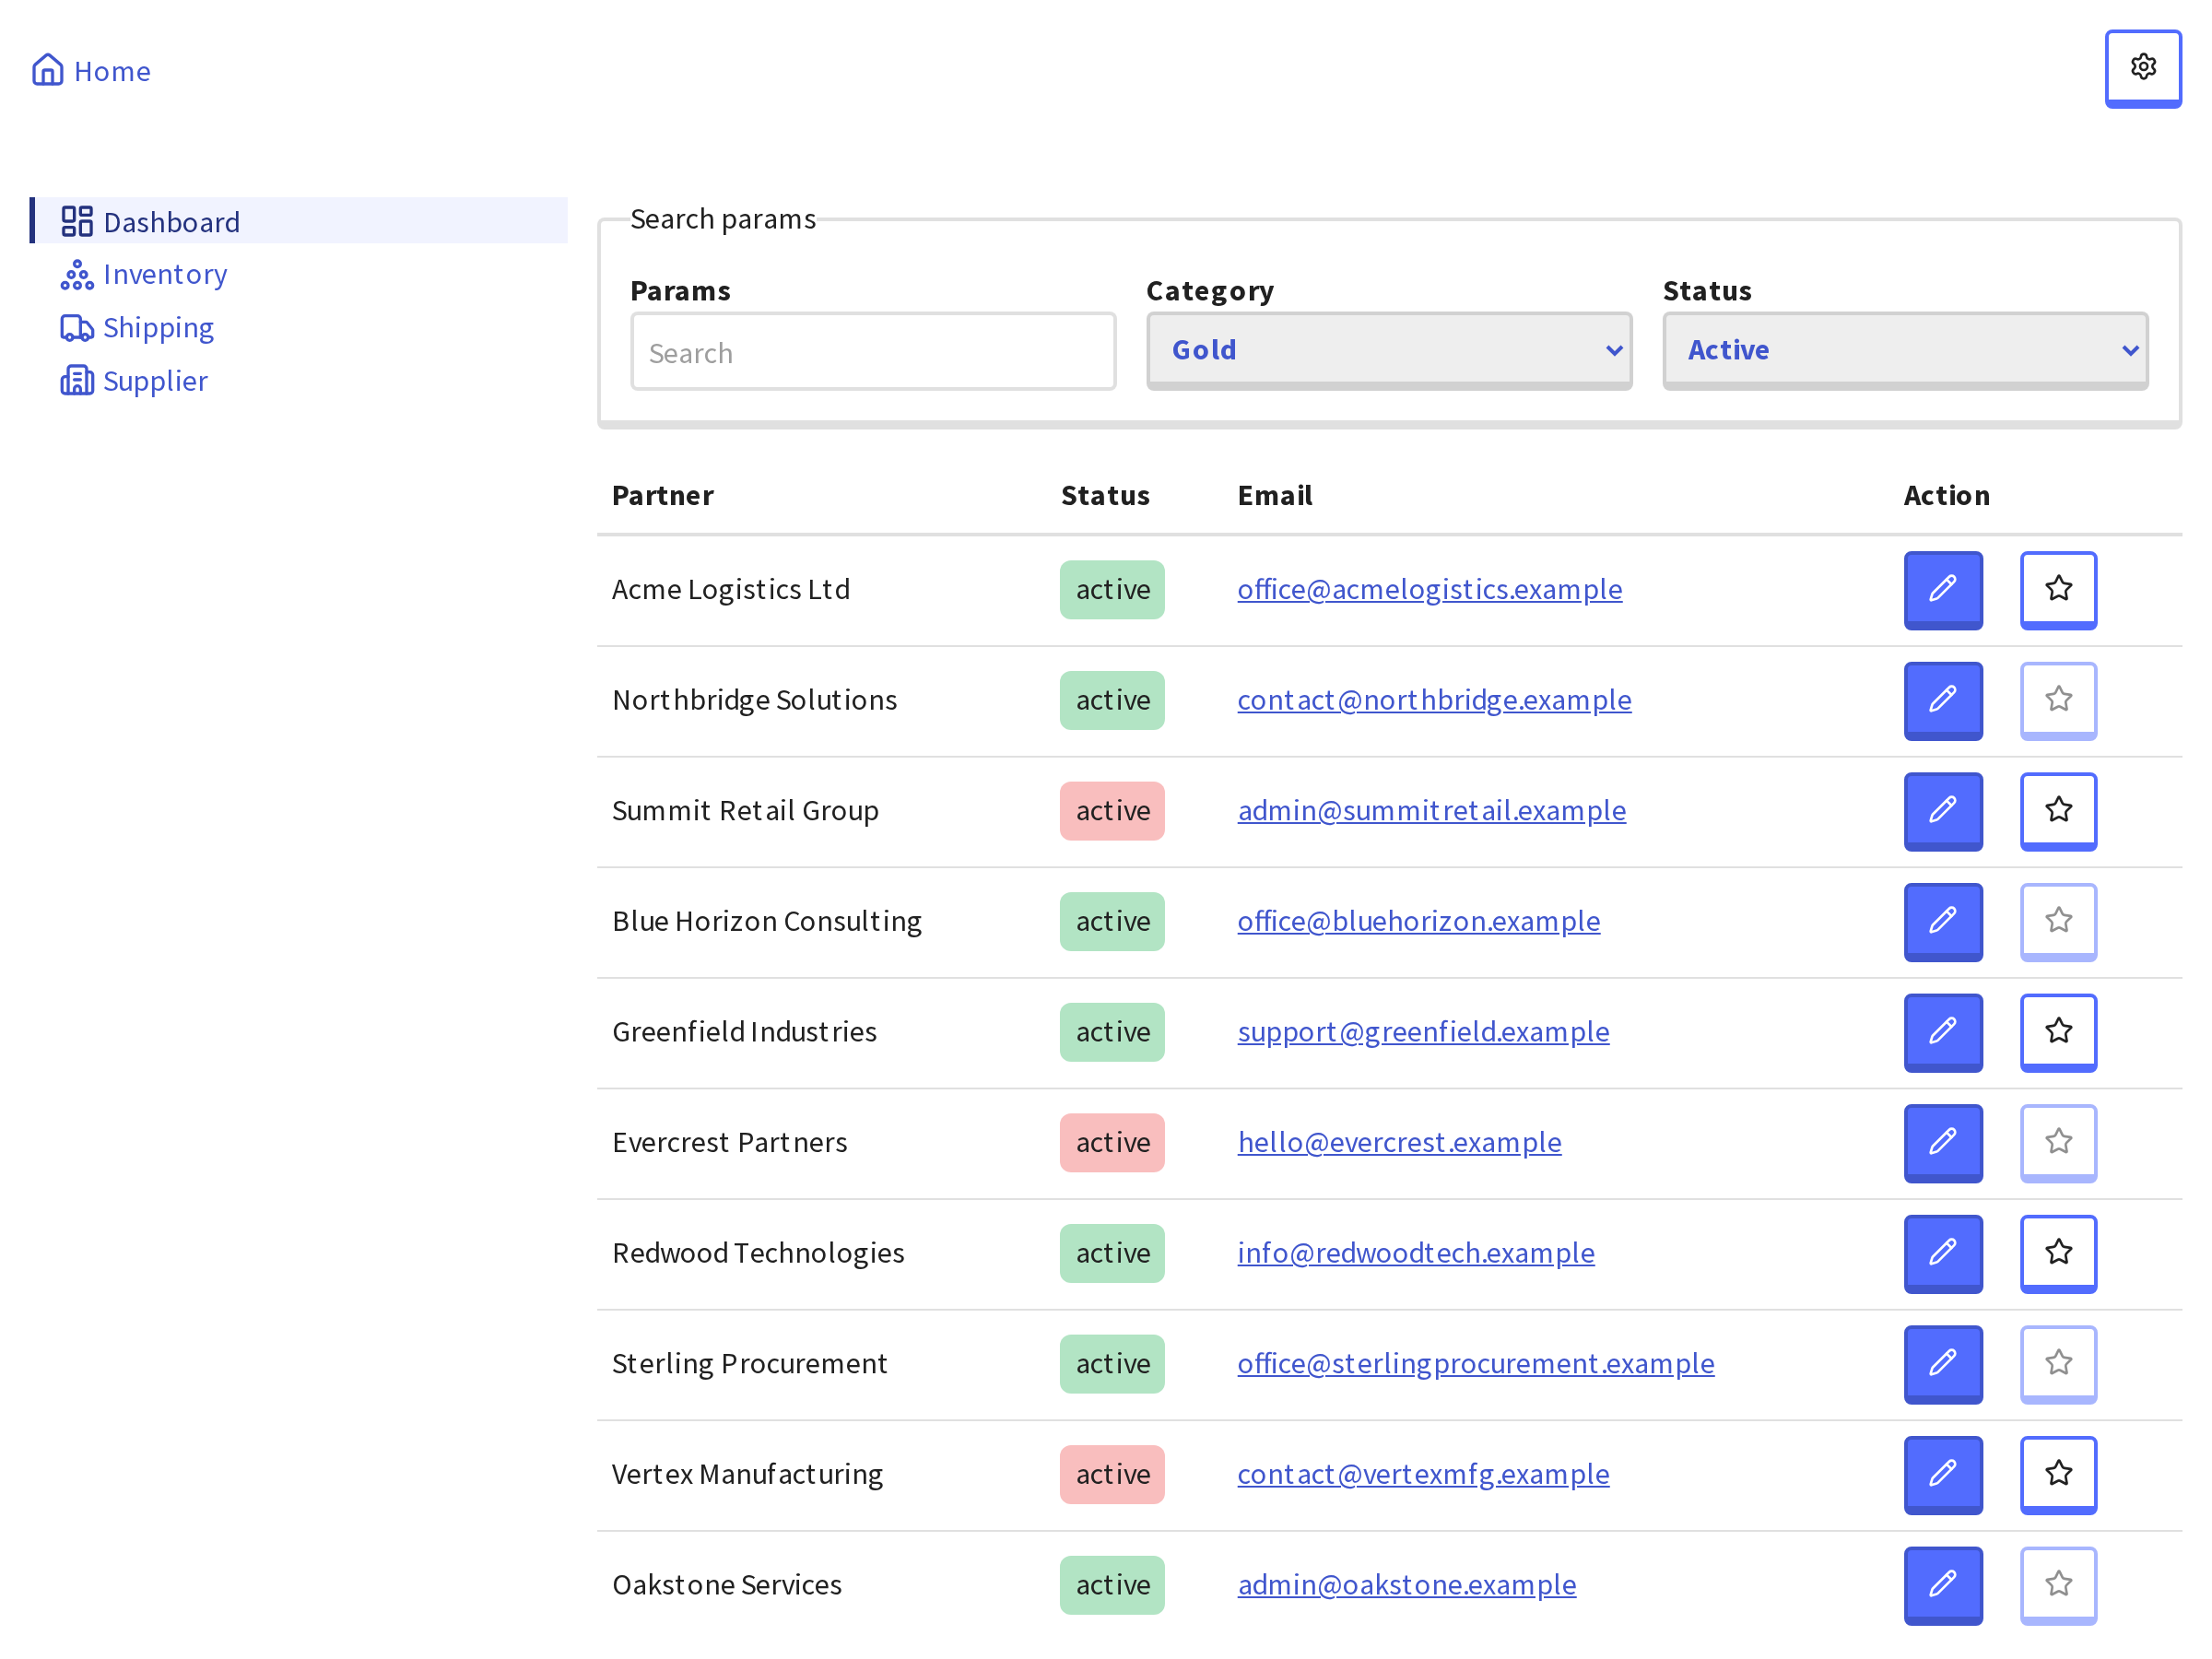
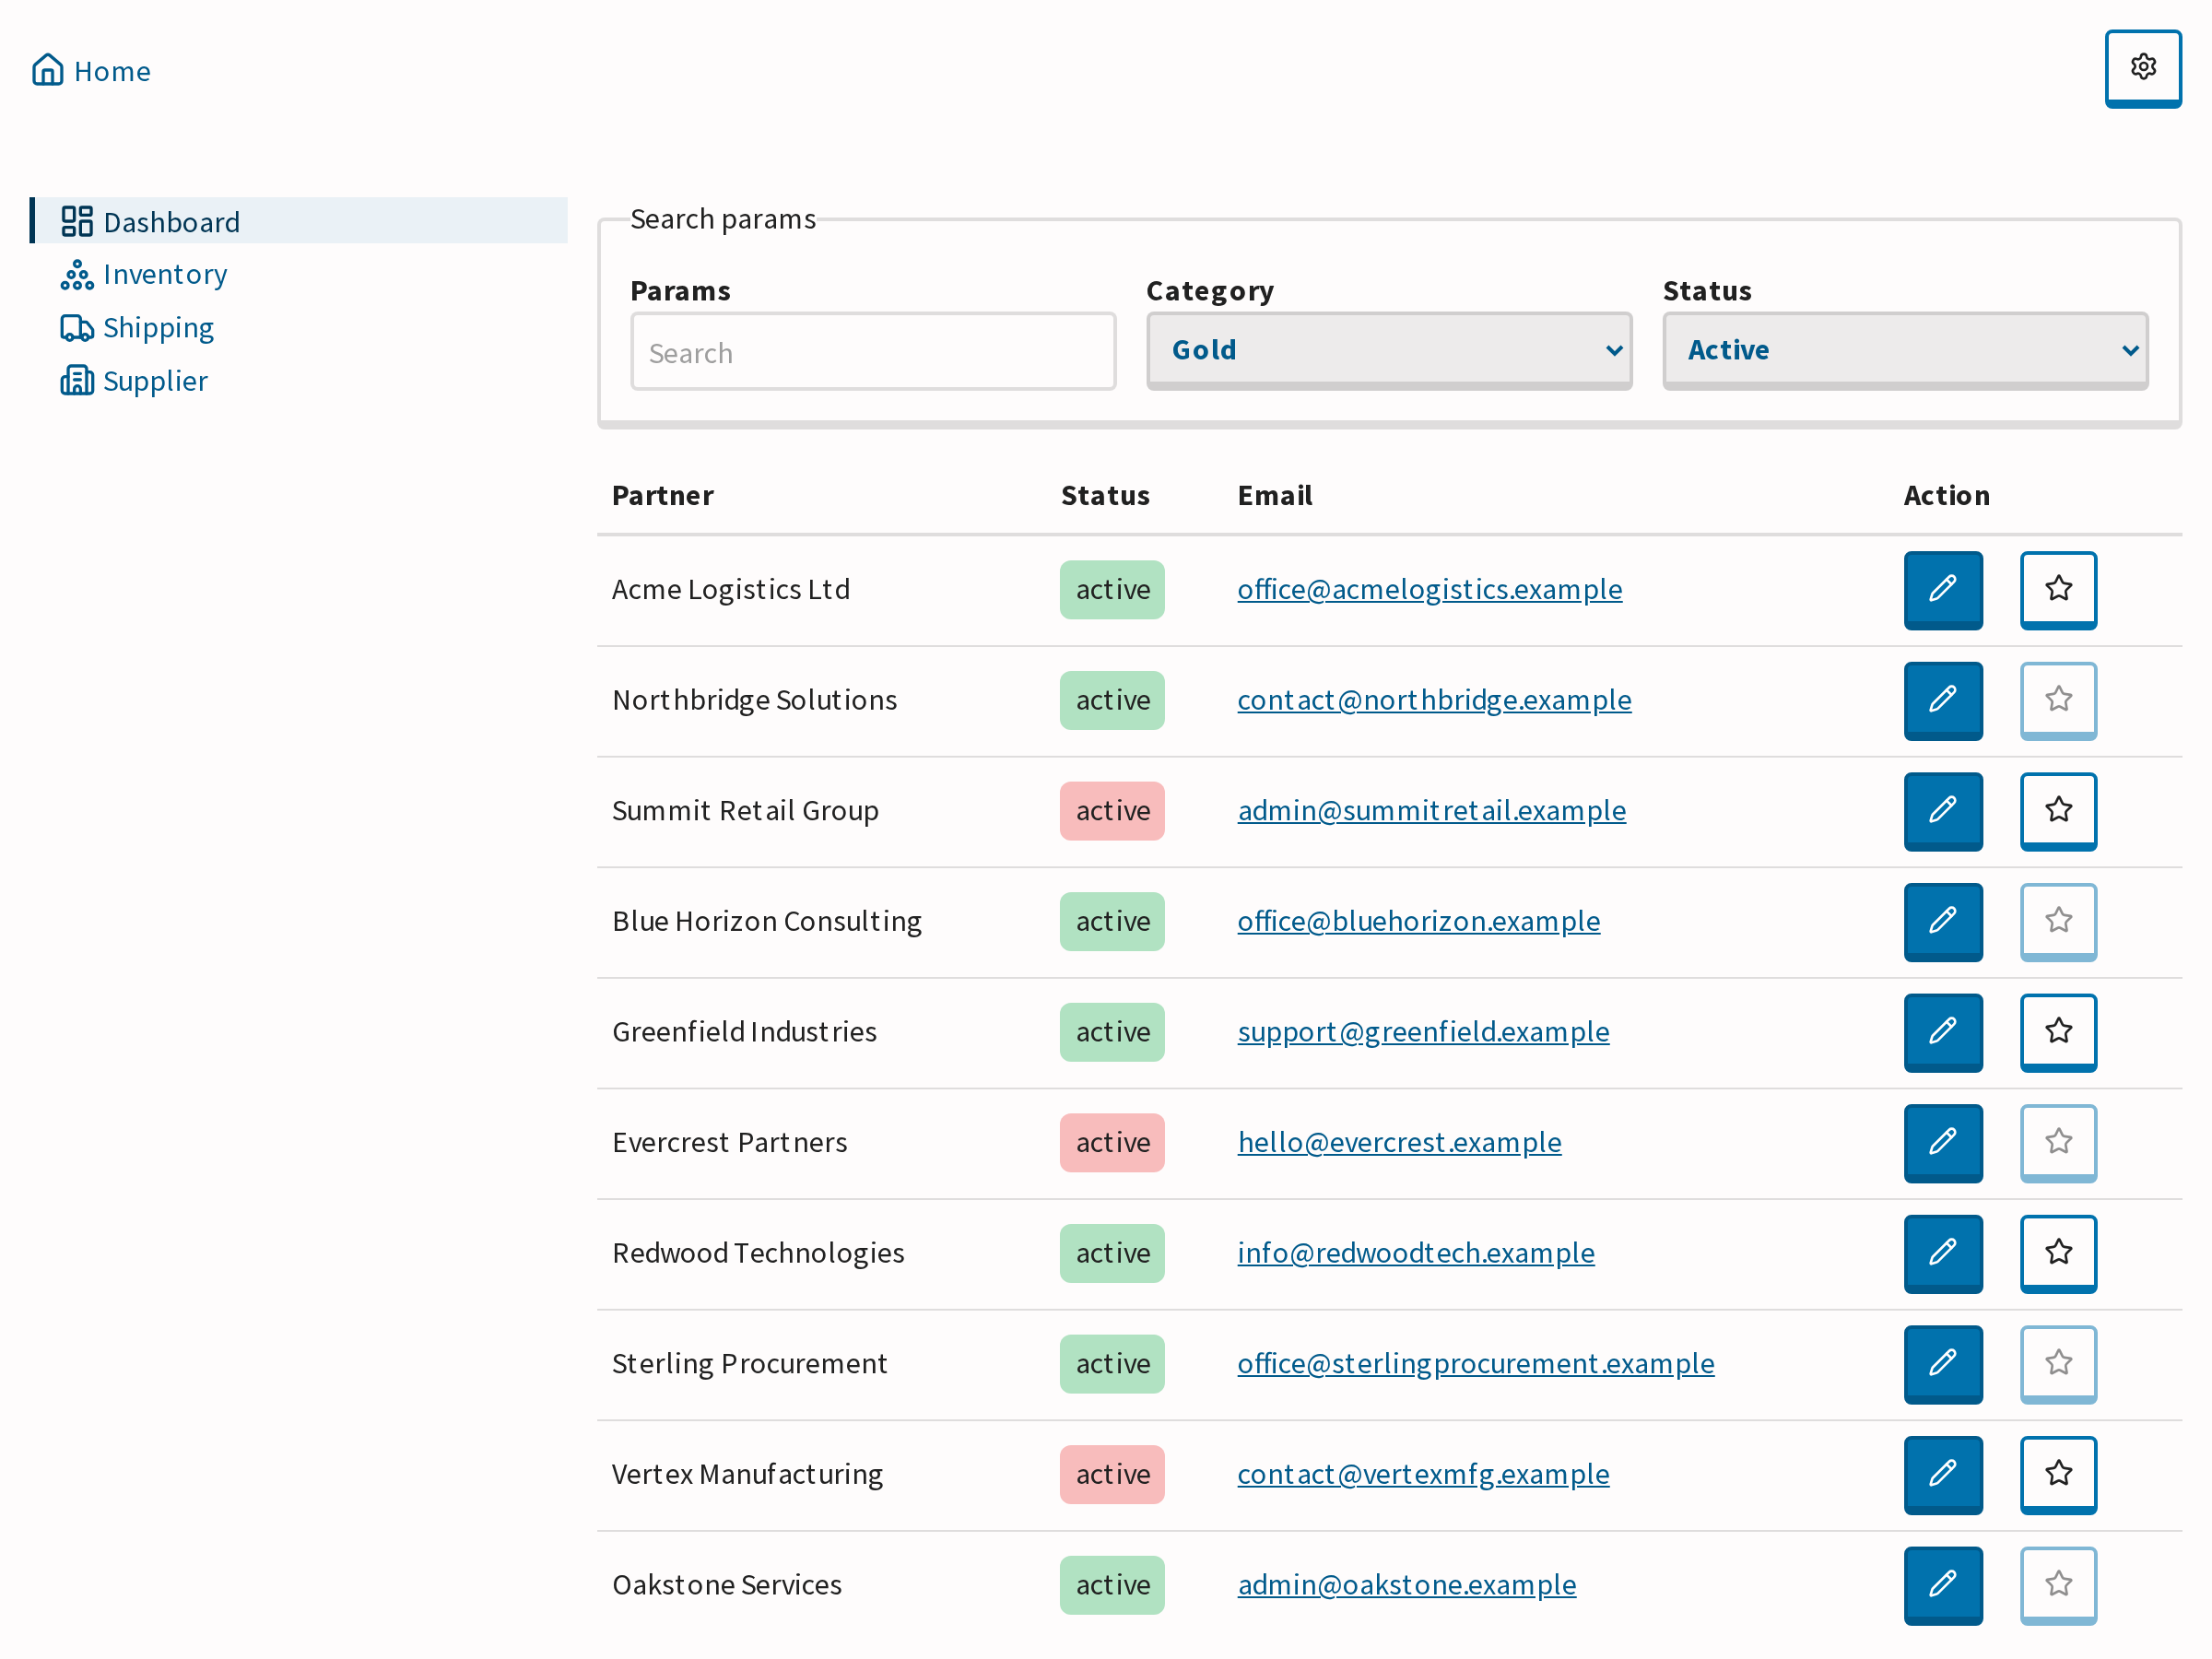
update

diff --git a/docs/showcase/app/custom.css b/docs/showcase/app/custom.css
@@ -39,11 +39,11 @@
 }
 
 :root {
-  --color-bg: light-dark(#fefcfc, #111827);
+  --color-bg: light-dark(#fefcfc, #002235);
   --color-txt: light-dark(#212121, #d8eaff);
   --color-txt-on-dark: #ffffff;
-  --color-primary: #526cfe;
-  --color-secondary: #8b5cf6;
+  --color-primary: #0172ad;
+  --color-secondary: #181c25;
 
   --color-success: #23b157;
   --color-error: #ef4444;

diff --git a/showcase/app/custom.css b/showcase/app/custom.css
@@ -39,11 +39,11 @@
 }
 
 :root {
-  --color-bg: light-dark(#fefcfc, #111827);
+  --color-bg: light-dark(#fefcfc, #002235);
   --color-txt: light-dark(#212121, #d8eaff);
   --color-txt-on-dark: #ffffff;
-  --color-primary: #526cfe;
-  --color-secondary: #8b5cf6;
+  --color-primary: #0172ad;
+  --color-secondary: #181c25;
 
   --color-success: #23b157;
   --color-error: #ef4444;

diff --git a/docs/showcase/newsletter/newsletter.html b/docs/showcase/newsletter/newsletter.html
@@ -1,2 +1,2 @@
 <!DOCTYPE html>
-<html lang="en"><head><meta charSet="utf-8"/><meta name="viewport" content="width=device-width, initial-scale=1.0"/><link rel="preload" as="image" href="https://picsum.photos/id/16/640/480"/><title>Showcase - Newsletter</title><meta name="description" content="CSS Theme Demo"/><meta name="author" content="CSS Theme"/><meta name="color-scheme" content="light dark"/><link rel="stylesheet" href="/res/theme.default.min.css"/><link rel="stylesheet" href="/css-theme/res/theme.default.min.css"/><link rel="stylesheet" href="/showcase/newsletter/custom.css"/><link rel="stylesheet" href="/css-theme/showcase/newsletter/custom.css"/></head><body><div><div id="root"><header><nav class="disable-mobile"><ul><li><svg width="30" height="30" viewBox="0 0 30 30"><defs><clipPath id="x6bssn374x"><circle cx="15" cy="15" r="15"></circle></clipPath></defs><image href="https://picsum.photos/id/42/30/30" width="30" height="30" clip-path="url(#x6bssn374x)" preserveAspectRatio="xMidYMid slice"></image></svg></li><div></div><li class="align-center"><h3>My Newsletter</h3></li><div></div><li><button>Subscribe</button></li></ul></nav></header><main><section><hgroup><h1>Lorem ipsum dolor sit amet</h1><h5>Lorem ipsum dolor sit amet, consectetur adipiscing elit</h5></hgroup><div role="group"><div class="row"><svg width="40" height="40" viewBox="0 0 40 40"><defs><clipPath id="i6y5ocrla8"><circle cx="20" cy="20" r="20"></circle></clipPath></defs><image href="https://picsum.photos/id/50/40/40" width="40" height="40" clip-path="url(#i6y5ocrla8)" preserveAspectRatio="xMidYMid slice"></image></svg><div><span>Author Name</span><br/><span><small>Published today • Paid</small></span></div></div></div><hr/><div class="row disable-mobile"><div><button type="reset"><svg xmlns="http://www.w3.org/2000/svg" width="24" height="24" viewBox="0 0 24 24" fill="none" stroke="currentColor" stroke-width="2" stroke-linecap="round" stroke-linejoin="round"><path d="M2 9.5a5.5 5.5 0 0 1 9.591-3.676.56.56 0 0 0 .818 0A5.49 5.49 0 0 1 22 9.5c0 2.29-1.5 4-3 5.5l-5.492 5.313a2 2 0 0 1-3 .019L5 15c-1.5-1.5-3-3.2-3-5.5"></path></svg><span>130</span></button><button type="reset"><svg xmlns="http://www.w3.org/2000/svg" width="24" height="24" viewBox="0 0 24 24" fill="none" stroke="currentColor" stroke-width="2" stroke-linecap="round" stroke-linejoin="round"><path d="M2.992 16.342a2 2 0 0 1 .094 1.167l-1.065 3.29a1 1 0 0 0 1.236 1.168l3.413-.998a2 2 0 0 1 1.099.092 10 10 0 1 0-4.777-4.719"></path></svg><span>20</span></button><button type="reset"><svg xmlns="http://www.w3.org/2000/svg" width="24" height="24" viewBox="0 0 24 24" fill="none" stroke="currentColor" stroke-width="2" stroke-linecap="round" stroke-linejoin="round"><path d="m2 9 3-3 3 3"></path><path d="M13 18H7a2 2 0 0 1-2-2V6"></path><path d="m22 15-3 3-3-3"></path><path d="M11 6h6a2 2 0 0 1 2 2v10"></path></svg><span>5</span></button></div><button type="reset">Share</button></div><hr/><p>Lorem ipsum dolor sit amet, consectetur adipiscing elit, sed do eiusmod tempor incididunt ut labore et dolore magna aliqua. Ut enim ad minim veniam, quis nostrud exercitation ullamco laboris nisi ut aliquip ex ea commodo consequat. Duis aute irure dolor in reprehenderit in voluptate velit esse cillum dolore eu fugiat nulla pariatur. Excepteur sint occaecat cupidatat non proident, sunt in culpa qui officia deserunt mollit anim id est laborum.</p><p>Sed ut perspiciatis unde omnis iste natus error sit voluptatem accusantium doloremque laudantium, totam rem aperiam, eaque ipsa quae ab illo inventore veritatis et quasi architecto beatae vitae dicta sunt explicabo. Nemo enim ipsam voluptatem quia voluptas sit aspernatur aut odit aut fugit, sed quia consequuntur magni dolores eos qui ratione voluptatem sequi nesciunt.</p><p>Neque porro quisquam est, qui dolorem ipsum quia dolor sit amet, consectetur, adipisci velit, sed quia non numquam eius modi tempora incidunt ut labore et dolore magnam aliquam quaerat voluptatem. Ut enim ad minima veniam, quis nostrum exercitationem ullam corporis suscipit laboriosam, nisi ut aliquid ex ea commodi consequatur? Quis autem vel eum iure reprehenderit qui in ea voluptate velit esse quam nihil molestiae consequatur, vel illum qui dolorem eum fugiat quo voluptas nulla pariatur?</p><figure><img width="100%" src="https://picsum.photos/id/16/640/480" alt="ssample image "/><figcaption>Lorem ipsum dolor sit amet, consectetur adipiscing elit</figcaption></figure><p>At vero eos et accusamus et iusto odio dignissimos ducimus qui blanditiis praesentium voluptatum deleniti atque corrupti quos dolores et quas molestias excepturi sint occaecati cupiditate non provident</p><blockquote><p>Itaque earum rerum hic tenetur a sapiente delectus, ut aut reiciendis voluptatibus maiores alias consequatur aut perferendis doloribus asperiores repellat</p><cite>- Author</cite></blockquote><p>Nam libero tempore, cum soluta nobis est eligendi optio cumque nihil impedit quo minus id quod maxime placeat facere possimus, omnis voluptas assumenda est, omnis dolor repellendus. Temporibus autem quibusdam et aut officiis debitis aut rerum necessitatibus saepe eveniet ut et voluptates repudiandae sint et molestiae non recusandae.</p><hr/><div class="align-center row"><div class="col-2"></div><div><form><p>This is a reader supported newsletter. Subscribe to get the latest article directly in your inbox.</p><input id="email" required="" type="email" placeholder="Type your email..."/><input id="subscribe" type="submit" value="Subscribe"/></form></div><div class="col-2"></div></div></section></main><footer><nav><ul><li><a href="">Terms of service</a></li><li><a href="">Privacy</a></li><li><a href="">About</a></li></ul></nav></footer></div><script>globalThis.__INITIAL_PROPS__ = {};</script><script type="module" src="./newsletter.js"></script></div></body></html>
+<html lang="en"><head><meta charSet="utf-8"/><meta name="viewport" content="width=device-width, initial-scale=1.0"/><link rel="preload" as="image" href="https://picsum.photos/id/16/640/480"/><title>Showcase - Newsletter</title><meta name="description" content="CSS Theme Demo"/><meta name="author" content="CSS Theme"/><meta name="color-scheme" content="light dark"/><link rel="stylesheet" href="/res/theme.default.min.css"/><link rel="stylesheet" href="/css-theme/res/theme.default.min.css"/><link rel="stylesheet" href="/showcase/newsletter/custom.css"/><link rel="stylesheet" href="/css-theme/showcase/newsletter/custom.css"/></head><body><div><div id="root"><header><nav class="disable-mobile"><ul><li><svg width="30" height="30" viewBox="0 0 30 30"><defs><clipPath id="5q0kc1azln"><circle cx="15" cy="15" r="15"></circle></clipPath></defs><image href="https://picsum.photos/id/42/30/30" width="30" height="30" clip-path="url(#5q0kc1azln)" preserveAspectRatio="xMidYMid slice"></image></svg></li><div></div><li class="align-center"><h3>My Newsletter</h3></li><div></div><li><button>Subscribe</button></li></ul></nav></header><main><section><hgroup><h1>Lorem ipsum dolor sit amet</h1><h5>Lorem ipsum dolor sit amet, consectetur adipiscing elit</h5></hgroup><div role="group"><div class="row"><svg width="40" height="40" viewBox="0 0 40 40"><defs><clipPath id="7bjrk68edx"><circle cx="20" cy="20" r="20"></circle></clipPath></defs><image href="https://picsum.photos/id/50/40/40" width="40" height="40" clip-path="url(#7bjrk68edx)" preserveAspectRatio="xMidYMid slice"></image></svg><div><span>Author Name</span><br/><span><small>Published today • Paid</small></span></div></div></div><hr/><div class="row disable-mobile"><div><button type="reset"><svg xmlns="http://www.w3.org/2000/svg" width="24" height="24" viewBox="0 0 24 24" fill="none" stroke="currentColor" stroke-width="2" stroke-linecap="round" stroke-linejoin="round"><path d="M2 9.5a5.5 5.5 0 0 1 9.591-3.676.56.56 0 0 0 .818 0A5.49 5.49 0 0 1 22 9.5c0 2.29-1.5 4-3 5.5l-5.492 5.313a2 2 0 0 1-3 .019L5 15c-1.5-1.5-3-3.2-3-5.5"></path></svg><span>130</span></button><button type="reset"><svg xmlns="http://www.w3.org/2000/svg" width="24" height="24" viewBox="0 0 24 24" fill="none" stroke="currentColor" stroke-width="2" stroke-linecap="round" stroke-linejoin="round"><path d="M2.992 16.342a2 2 0 0 1 .094 1.167l-1.065 3.29a1 1 0 0 0 1.236 1.168l3.413-.998a2 2 0 0 1 1.099.092 10 10 0 1 0-4.777-4.719"></path></svg><span>20</span></button><button type="reset"><svg xmlns="http://www.w3.org/2000/svg" width="24" height="24" viewBox="0 0 24 24" fill="none" stroke="currentColor" stroke-width="2" stroke-linecap="round" stroke-linejoin="round"><path d="m2 9 3-3 3 3"></path><path d="M13 18H7a2 2 0 0 1-2-2V6"></path><path d="m22 15-3 3-3-3"></path><path d="M11 6h6a2 2 0 0 1 2 2v10"></path></svg><span>5</span></button></div><button type="reset">Share</button></div><hr/><p>Lorem ipsum dolor sit amet, consectetur adipiscing elit, sed do eiusmod tempor incididunt ut labore et dolore magna aliqua. Ut enim ad minim veniam, quis nostrud exercitation ullamco laboris nisi ut aliquip ex ea commodo consequat. Duis aute irure dolor in reprehenderit in voluptate velit esse cillum dolore eu fugiat nulla pariatur. Excepteur sint occaecat cupidatat non proident, sunt in culpa qui officia deserunt mollit anim id est laborum.</p><p>Sed ut perspiciatis unde omnis iste natus error sit voluptatem accusantium doloremque laudantium, totam rem aperiam, eaque ipsa quae ab illo inventore veritatis et quasi architecto beatae vitae dicta sunt explicabo. Nemo enim ipsam voluptatem quia voluptas sit aspernatur aut odit aut fugit, sed quia consequuntur magni dolores eos qui ratione voluptatem sequi nesciunt.</p><p>Neque porro quisquam est, qui dolorem ipsum quia dolor sit amet, consectetur, adipisci velit, sed quia non numquam eius modi tempora incidunt ut labore et dolore magnam aliquam quaerat voluptatem. Ut enim ad minima veniam, quis nostrum exercitationem ullam corporis suscipit laboriosam, nisi ut aliquid ex ea commodi consequatur? Quis autem vel eum iure reprehenderit qui in ea voluptate velit esse quam nihil molestiae consequatur, vel illum qui dolorem eum fugiat quo voluptas nulla pariatur?</p><figure><img width="100%" src="https://picsum.photos/id/16/640/480" alt="ssample image "/><figcaption>Lorem ipsum dolor sit amet, consectetur adipiscing elit</figcaption></figure><p>At vero eos et accusamus et iusto odio dignissimos ducimus qui blanditiis praesentium voluptatum deleniti atque corrupti quos dolores et quas molestias excepturi sint occaecati cupiditate non provident</p><blockquote><p>Itaque earum rerum hic tenetur a sapiente delectus, ut aut reiciendis voluptatibus maiores alias consequatur aut perferendis doloribus asperiores repellat</p><cite>- Author</cite></blockquote><p>Nam libero tempore, cum soluta nobis est eligendi optio cumque nihil impedit quo minus id quod maxime placeat facere possimus, omnis voluptas assumenda est, omnis dolor repellendus. Temporibus autem quibusdam et aut officiis debitis aut rerum necessitatibus saepe eveniet ut et voluptates repudiandae sint et molestiae non recusandae.</p><hr/><div class="align-center row"><div class="col-2"></div><div><form><p>This is a reader supported newsletter. Subscribe to get the latest article directly in your inbox.</p><input id="email" required="" type="email" placeholder="Type your email..."/><input id="subscribe" type="submit" value="Subscribe"/></form></div><div class="col-2"></div></div></section></main><footer><nav><ul><li><a href="">Terms of service</a></li><li><a href="">Privacy</a></li><li><a href="">About</a></li></ul></nav></footer></div><script>globalThis.__INITIAL_PROPS__ = {};</script><script type="module" src="./newsletter.js"></script></div></body></html>